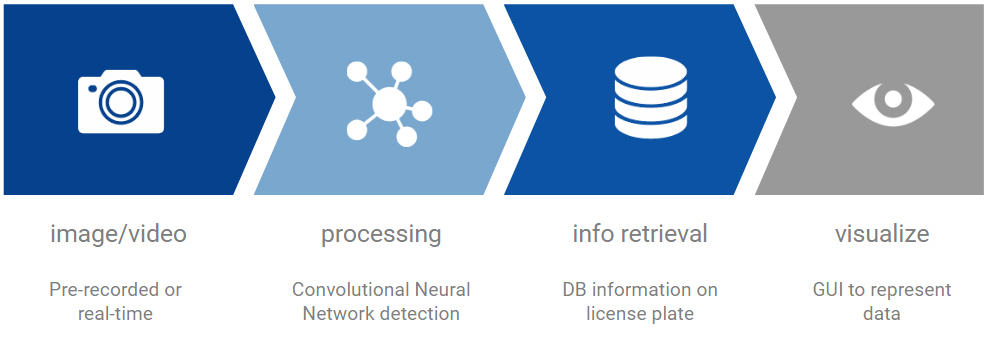
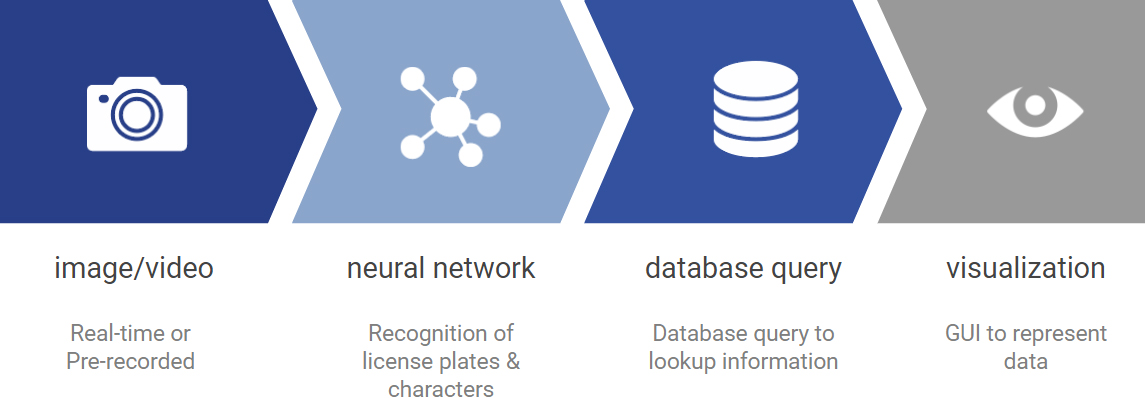
adjusted Overview/About image and spacing

diff --git a/progress-report.html b/progress-report.html
@@ -1,0 +1,143 @@
+<!doctype html>
+<html lang="en">
+    <head>
+        <meta charset="utf-8">
+        <title></title>
+        <meta name="ATM" content="">
+        <meta name="viewport" content="width=device-width, initial-scale=1">
+        <link rel="stylesheet" href="./css/bootstrap.min.css">
+        <link rel="stylesheet" href="./css/main2.css">
+    </head>
+    <body>
+        <!--[if lt IE 7]>
+            <p class="browsehappy">You are using an <strong>outdated</strong> browser. Please <a href="#">upgrade your browser</a> to improve your experience.</p>
+        <![endif]-->
+   
+
+        <div class="jumbotron pt-5 pb-1">
+            <div class="container">
+            <h1 class="display-5">Deep Learning License Plate Recognition</h1>
+            <p class="lead">CS4850 Weekly Progress Report</p>
+            <hr class="my-2">
+            <p>Kennesaw State University | Fall 2018</p>
+            </div>
+        </div>
+        <div class="container">
+            <div class="row">
+                <div class="col-lg-4">
+                    <div class="card mt-1 mb-5 border-0">
+                            <h5 class="card-header">Team Members</h5>
+                            <div class="card-body rounded pl-1">
+                                <ul>
+                                    <li>Armando Mercado</li>
+                                    <li>Carlos Lopez</li>
+                                    <li>Daylon Janis</li>
+                                    <li>Georgi Valkov</li>
+                                    <li>Robert Douma</li>
+                                </ul>
+                            </div>
+                    </div>
+                    <div class="card mb-4 border-0">
+                            <h5 class="card-header">Team Meetings</h5>
+                            <div class="card-body rounded">
+                                <h5 class="card-title">November</h5>
+                                <h6>Attendees: 4</h6>
+                                <p class="card-text">Online meeting to discuss remaining tasks and direction.</p>
+                                <hr>
+                                <h5 class="card-title">October 31</h5>
+                                <h6>Attendees: 5</h6>
+                                <p class="card-text">Online meeting to establish remaining tasks and direction.</p>
+                                <hr>
+                                <h5 class="card-title">October 10</h5>
+                                <h6>Attendees: 5</h6>
+                                <p class="card-text">Worked on mid-term presentation.</p>
+                                <hr>
+                                <h5 class="card-title">October 4</h5>
+                                <h6>Attendees: 5</h6>
+                                <p class="card-text">Discussed current progress, complications, technicalities, next steps.</p>
+                          
+                            </div>
+                        </div>
+                </div>
+                <div class="col">
+
+
+
+                    <div class="card mt-1 border-0 mb-5">
+                        <h5 class="text-right card-header">Progress Report 9 </h5>
+                        <div class="card-body rounded">
+                            <h5 class="text-right text-muted">November 3 2018</h5>
+                            <hr>
+                            <h5>Tasks Accomplished</h5>
+                            <p class="mb-0">Armando Mercado: Recorded video, worked on project update, gave input. </p>
+                            <p class="mb-0">Carlos Lopez: Gave input, Record video for test data.</p>
+                            <p class="mb-0">Daylon Janis: Sorted and labeled frames of training data.</p>
+                            <p class="mb-0">Georgi Valkov: Wrote prototype of the GUI.</p>
+                            <p class="mb-3">Rob Douma: Labeled images for training data</p>
+                            <h5>Tasks Planned</h5>
+                            <p class="mb-0">Armando Mercado: Record video for test data,develop database schema, make database. </p>
+                            <p class="mb-0">Carlos Lopez: Record video for test data. </p>
+                            <p class="mb-0">Daylon Janis: Record video for test data.</p>
+                            <p class="mb-0">Georgi Valkov: Work on GUI Frontend, work on retraining models</p>
+                            <p class="mb-3">Rob Douma: Work retraining models</p>
+                            <h5>Comments</h5>
+                            <p class="mb-5">We are currently working on collecting training data for the text detection model and writing the last features of the project, like a database and a GUI and starting the poster.
+                        </div>
+                    </div>
+
+
+
+
+                    <div class="card mt-1 border-0 mb-5">
+                        <h5 class="text-right card-header">Progress Report 8 </h5>
+                        <div class="card-body rounded">
+                            <h5 class="text-right text-muted">October 31 2018</h5>
+                            <hr>
+                            <h5>Tasks Accomplished</h5>
+                            <p class="mb-0">Armando Mercado: Wrote project website. </p>
+                            <p class="mb-0">Carlos Lopez: Gave input, Record video for test data.</p>
+                            <p class="mb-0">Daylon Janis: Record video for test data</p>
+                            <p class="mb-0">Georgi Valkov: Record video for test data, package TensorFlow models.</p>
+                            <p class="mb-3">Rob Douma: Recorded video for test data, wrote project website</p>
+                            <h5>Tasks Planned</h5>
+                            <p class="mb-0">Armando Mercado: Record video for test data. </p>
+                            <p class="mb-0">Carlos Lopez: Record video for test data </p>
+                            <p class="mb-0">Daylon Janis: Record video for test data.</p>
+                            <p class="mb-0">Georgi Valkov: Retraining object recognition model using a different configuration file</p>
+                            <p class="mb-3">Rob Douma: Work on TensorFlow model</p>
+                            <h5>Comments</h5>
+                            <p class="mb-5">We are currently working on collecting training data for the text detection model and working on ways to optimize the tensorflow models.  We are also starting planning for a GUI frontend and to write the paper.  </p>
+                        </div>
+                    </div>
+
+
+                    
+                    <!--- new update -->
+                    <div class="card mt-1 border-0 mb-5">
+                        <h5 class="text-right card-header">Progress Report 7 </h5>
+                        <div class="card-body rounded">
+                            <h5 class="text-right text-muted">October 15 2018</h5>
+                            <hr>
+                            <h5>Tasks Accomplished</h5>
+                            <p class="mb-0">Armando Mercado: Give input, prepared for presentation</p>
+                            <p class="mb-0">Carlos Lopez: Give input, prepared for presentation</p>
+                            <p class="mb-0">Daylon Janis: Research, give input, worked on presentation</p>
+                            <p class="mb-0">Georgi Valkov: Give input, prepared for presentation, worked on tensorflow code, collected training data</p>
+                            <p class="mb-3">Rob Douma: Give input, prepared for presentation, collected training data</p>
+                            <h5>Tasks Planned</h5>
+                            <p class="mb-0">Armando Mercado: Mid-term presentation</p>
+                            <p class="mb-0">Carlos Lopez: Mid-term presentation</p>
+                            <p class="mb-0">Daylon Janis: Mid-term presentation</p>
+                            <p class="mb-0">Georgi Valkov: Mid-term presentation</p>
+                            <p class="mb-3">Rob Douma: Mid-term presentation</p>
+                            <h5>Comments</h5>
+                            <p class="mb-5">Currently working on the first stage of our project. We are working on gathering video from the decks for testing and deciding on the approach for the machine learning.  We have successfully gotten the model to recognize license plates in a frame, but we still need to get it to read the text on the plates.  We are preparing to present what we have on monday.</p>
+                        </div>
+                        
+                    </div>
+                </div>
+            </div>
+        </div>
+        <script src="./js/bootstrap.min.js"></script>      
+    </body>
+</html>

diff --git a/index.html b/index.html
@@ -76,8 +76,16 @@
                 <h2 class="section-heading">Overview</h2>
                 <hr class="my-1 mb-5">
                 <h5 class="mb-5">Our goal is to use Google's Tensorflow framework to create a Deep Learning Convolutional Neural Network (CNN) model for license plate detection.</h5>
+              </div>
+            </div>
+            <div class="row">
+              <div class="col-lg-10 mx-auto text-center mt-5 mb-5">
                 <img src="img/process.jpg" class="img-fluid" alt="Responsive image">
-                <h5 class="mt-5">The trained model will detect license plates in image/video, perform character recognition, lookup the character set in a database, and finally display information about that record to the user.</h5>
+              </div>
+            </div>
+            <div class="row">
+              <div class="col-lg-12 mx-auto text-center">
+                <h5 class="mt-5">The app features a trained model that can classify license plates and characters in images/videos.  Using the character set retrieved, it then queries a database for information about that license plate and displays it to the user.</h5>
                 <a class="btn btn-primary btn-xl js-scroll-trigger mt-5" href="#team">See our team!</a>
               </div>
             </div>
@@ -100,7 +108,7 @@
             <div class="row mt-3">
               <div class="col-sm-4">
                 <div class="team-member">
-                  <img class="mx-auto rounded-circle" src="img/no_pic.jpg" alt="">
+                  <img class="mx-auto rounded-circle" src="img/armando.jpg" alt="">
                   <h4>Armando Mercado</h4>
                   <p class="text-white">Developer</p>
                 </div>

diff --git a/css/main2.css b/css/main2.css
@@ -1,0 +1,21 @@
+body { 
+    background: url(../img/bg.jpg) no-repeat center center fixed; 
+    -webkit-background-size: cover;
+    -moz-background-size: cover;
+    -o-background-size: cover;
+    background-size: cover;
+  }
+
+.card-header {
+    background-color:#344254;
+    color:white;
+}
+
+.card {
+    /* background-color:#e9ecef; */
+    background-color:rgba(233,236,239,0.70);
+}
+
+.jumbotron {
+    background-color:rgba(255,255,255,0.70);
+}

diff --git a/css/main.css b/css/main.css
@@ -20,13 +20,13 @@
  }
  
  a {
-   color: #F05F40;
+   color: rgb(32, 166, 255);
    -webkit-transition: all 0.2s;
    transition: all 0.2s;
  }
  
  a:hover {
-   color: #f05f40;
+   color: rgb(32, 166, 255);
  }
  
  h1,
@@ -51,7 +51,7 @@
  }
  
  section {
-   padding: 8rem 0;
+   padding: 5rem 0;
  }
  
  .section-heading {
